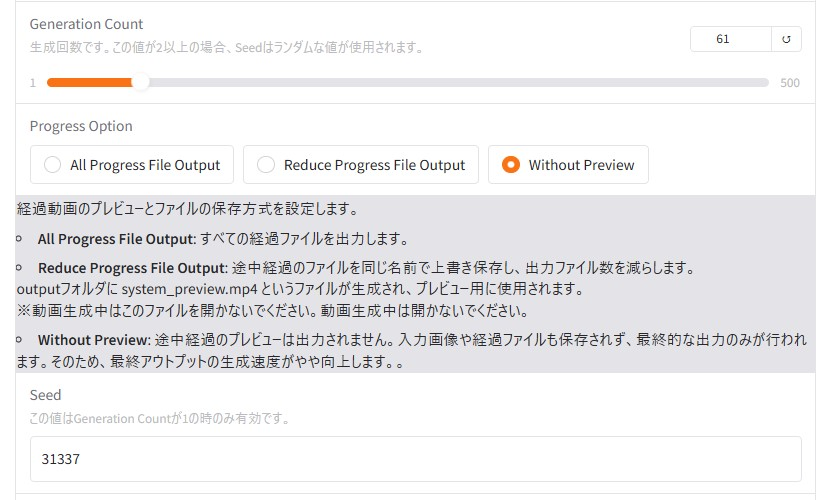
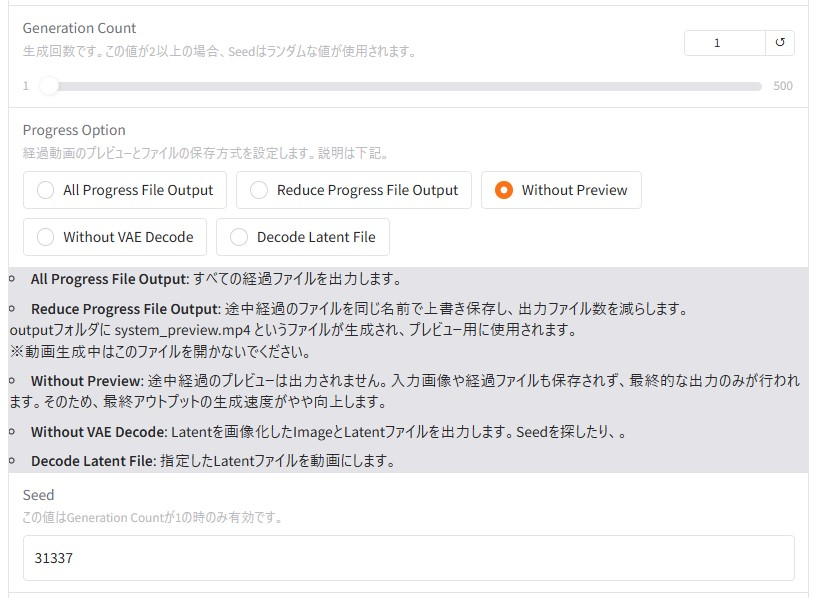
過去の参照は無駄そうなので削除

diff --git a/demo_gradio_loop.py b/demo_gradio_loop.py
@@ -403,50 +403,23 @@ def worker(input_image, prompt, n_prompt, seed, total_second_length, connection_
 
                 print(f'latent_padding_size = {latent_padding_size}, is_last_section = {is_last_section}')
 
-                indices = torch.arange(0, sum([N,2,1,latent_padding_size, latent_window_size, 1, 2, N])).unsqueeze(0)
-                pre_clean_latent_4x_indices, pre_clean_latent_2x_indices, clean_latent_indices_pre,blank_indices, latent_indices, clean_latent_indices_post, clean_latent_2x_indices, clean_latent_4x_indices = \
-                    indices.split([N,2,1,latent_padding_size, latent_window_size, 1, 2, N], dim=1)
+                indices = torch.arange(0, sum([1,latent_padding_size, latent_window_size, 1, 2, N])).unsqueeze(0)
+                clean_latent_indices_pre,blank_indices, latent_indices, clean_latent_indices_post, clean_latent_2x_indices, clean_latent_4x_indices = \
+                    indices.split([1,latent_padding_size, latent_window_size, 1, 2, N], dim=1)
                 
-                #print(clean_latent_indices_pre)
                 clean_latent_indices = torch.cat([clean_latent_indices_pre, clean_latent_indices_post], dim=1)
-                clean_latent_2x_indices = torch.cat([pre_clean_latent_2x_indices, clean_latent_2x_indices], dim=1)
-                clean_latent_4x_indices = torch.cat([pre_clean_latent_4x_indices, clean_latent_4x_indices], dim=1)
-                # clean_latent_indices = torch.cat([clean_latent_indices_post], dim=1)
-                # clean_latent_2x_indices = torch.cat( [clean_latent_2x_indices], dim=1)
-                # clean_latent_4x_indices = torch.cat([ clean_latent_4x_indices], dim=1)
+                clean_latent_2x_indices = torch.cat([clean_latent_2x_indices], dim=1)
+                clean_latent_4x_indices = torch.cat([clean_latent_4x_indices], dim=1)
 
-                # clean_latent_indices = torch.cat([ pre_clean_latent_2x_indices,
-                #                                   clean_latent_indices_pre, clean_latent_indices_post,
-                #                                   clean_latent_2x_indices
-                #                                   ], dim=1)
-                # clean_latent_2x_indices = None
-                # clean_latent_4x_indices =  torch.cat([pre_clean_latent_4x_indices
-                                                
-                #                                   ,clean_latent_4x_indices
-                #                                   ], dim=1)
-                #print(clean_latent_indices)
-                #print(clean_latent_2x_indices)
-                #print(clean_latent_4x_indices)
-                
 
-                #clean_latents_pre = history_latents[:, :, total_generated_latent_frames-1:total_generated_latent_frames, :, :]
-                #print(post_history_latents.shape)
-
-                clean_latents_4x_pre, clean_latents_2x_pre,clean_latents_pre  = post_history_latents[:, :, -(1 + 2 + N):, :, :].split([N, 2, 1], dim=2)
+                clean_latents_pre  = post_history_latents[:, :, -1:, :, :]
                 clean_latents_post, clean_latents_2x, clean_latents_4x = post_history_latents[:, :, :1 + 2 + N, :, :].split([1, 2, N], dim=2)
 
                 clean_latents = torch.cat([clean_latents_pre, clean_latents_post], dim=2)
-                clean_latents_2x = torch.cat([clean_latents_2x_pre, clean_latents_2x], dim=2)
-                clean_latents_4x = torch.cat([clean_latents_4x_pre, clean_latents_4x], dim=2)
-                # clean_latents = torch.cat([ clean_latents_post], dim=2)
-                # clean_latents_2x = torch.cat([ clean_latents_2x], dim=2)
-                # clean_latents_4x = torch.cat([ clean_latents_4x], dim=2)
-                # clean_latents = torch.cat([clean_latents_2x_pre,clean_latents_pre,
-                #                             clean_latents_post,clean_latents_2x], dim=2)
-                # clean_latents_2x = None
-                # clean_latents_4x = torch.cat([clean_latents_4x_pre,clean_latents_4x], dim=2)
-                
+                clean_latents_2x = torch.cat([clean_latents_2x], dim=2)
+                clean_latents_4x = torch.cat([clean_latents_4x], dim=2)
 
+            
                 if not high_vram:
                     unload_complete_models()
                     move_model_to_device_with_memory_preservation(transformer, target_device=gpu, preserved_memory_gb=gpu_memory_preservation)
@@ -630,8 +603,6 @@ def worker(input_image, prompt, n_prompt, seed, total_second_length, connection_
                 #print(current_pixels.shape)
                 #print(final_history_pixels.shape)
                 final_history_pixels = soft_append_bcthw(current_pixels, final_history_pixels, overlapped_frames)
-            
-
         
         # ループ１素材だけを取るために前１セクションフレームと、後ろ１セクションフレーム - 3を削除
         final_history_pixels = final_history_pixels[:,:,latent_window_size * 4:,:,:]
